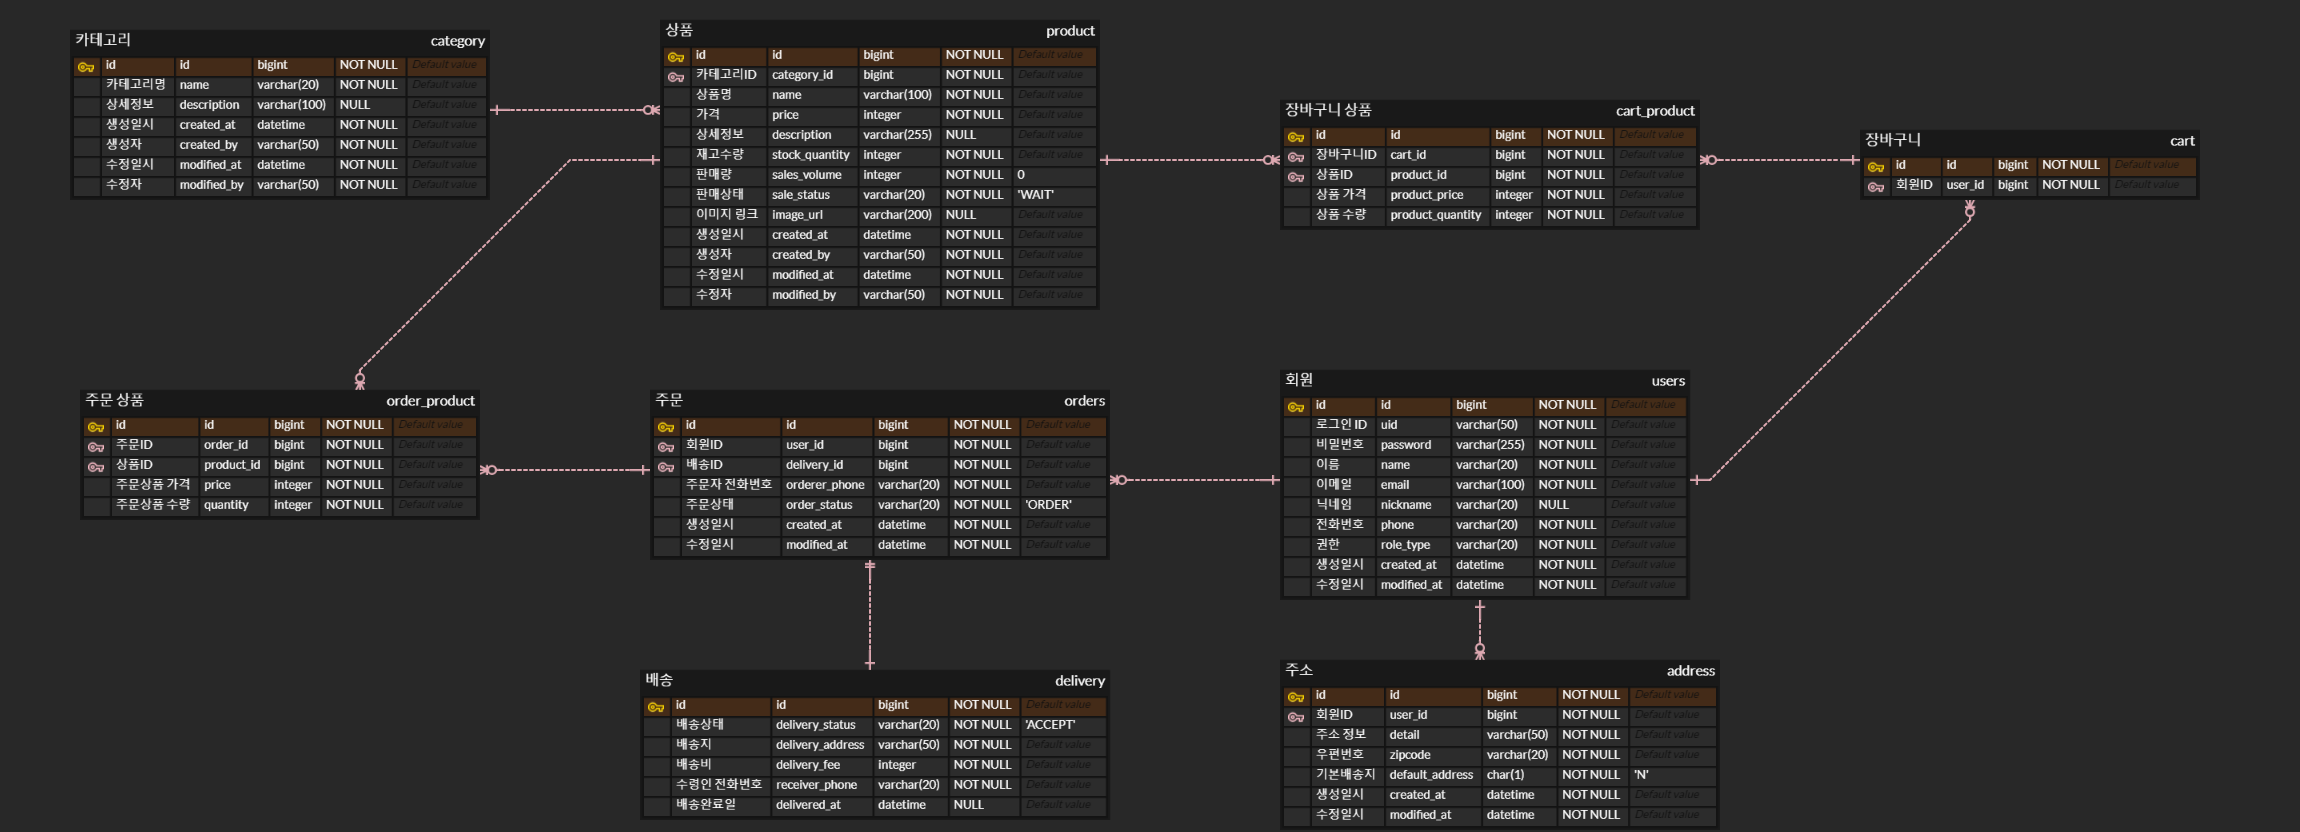
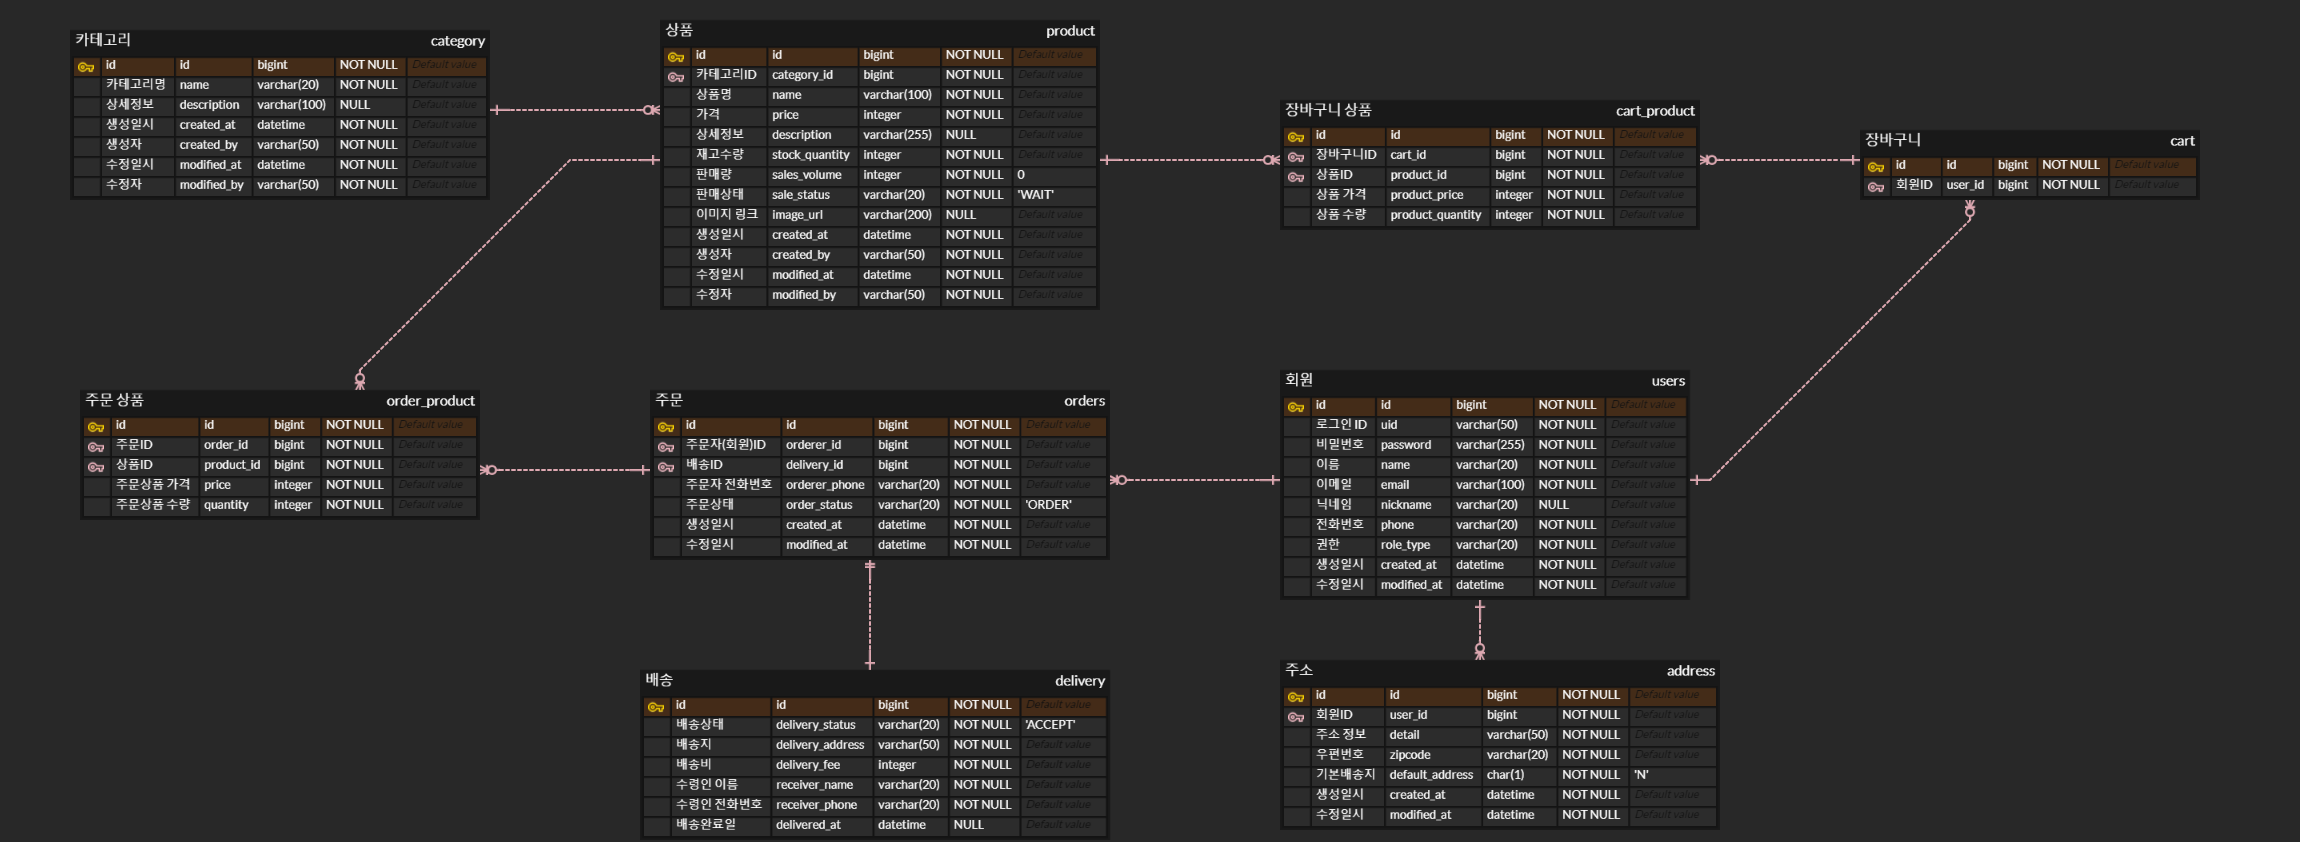
주문, 배송 엔티티 수정 (#32)
* #30 - 주문 엔티티 수정: user -> orderer

주문자라는 의미를 명확하게 하기 위해 `orderer`로 변경함.

* #30 - 배송 엔티티 수정: receiverName 추가

주문한 사람과 배송 받는 사람은 다를 수 있기 때문에 수령인 이름(`receiverName`)을 추가함.

* #30 - ERD에 변경 사항 반영

주문, 배송 엔티티의 변경 사항을 ERD에도 반영함.

변경 사항:
* orders: user_id -> orderer_id
* delivery: receiver_name 추가

diff --git a/src/main/java/com/been/onlinestore/domain/Delivery.java b/src/main/java/com/been/onlinestore/domain/Delivery.java
@@ -38,6 +38,9 @@ public class Delivery {
     private int deliveryFee;
 
     @Column(nullable = false, length = 20)
+    private String receiverName;
+
+    @Column(nullable = false, length = 20)
     private String receiverPhone;
 
     @DateTimeFormat(iso = DateTimeFormat.ISO.DATE_TIME)
@@ -45,16 +48,17 @@ public class Delivery {
 
     protected Delivery() {}
 
-    private Delivery(DeliveryStatus deliveryStatus, String deliveryAddress, int deliveryFee, String receiverPhone, LocalDateTime deliveredAt) {
+    private Delivery(DeliveryStatus deliveryStatus, String deliveryAddress, int deliveryFee, String receiverName, String receiverPhone, LocalDateTime deliveredAt) {
         this.deliveryStatus = deliveryStatus;
         this.deliveryAddress = deliveryAddress;
         this.deliveryFee = deliveryFee;
+        this.receiverName = receiverName;
         this.receiverPhone = receiverPhone;
         this.deliveredAt = deliveredAt;
     }
 
-    public static Delivery of(DeliveryStatus deliveryStatus, String deliveryAddress, int deliveryFee, String receiverPhone, LocalDateTime deliveredAt) {
-        return new Delivery(deliveryStatus, deliveryAddress, deliveryFee, receiverPhone, deliveredAt);
+    public static Delivery of(DeliveryStatus deliveryStatus, String deliveryAddress, int deliveryFee, String receiverName, String receiverPhone, LocalDateTime deliveredAt) {
+        return new Delivery(deliveryStatus, deliveryAddress, deliveryFee, receiverName, receiverPhone, deliveredAt);
     }
 
     @Override

diff --git a/src/main/java/com/been/onlinestore/domain/Order.java b/src/main/java/com/been/onlinestore/domain/Order.java
@@ -31,7 +31,7 @@ public class Order extends BaseTimeEntity {
 
     @ToString.Exclude
     @ManyToOne(fetch = FetchType.LAZY)
-    private User user;
+    private User orderer;
 
     @ToString.Exclude
     @OneToOne(fetch = FetchType.LAZY)
@@ -48,8 +48,8 @@ public class Order extends BaseTimeEntity {
 
     protected Order() {}
 
-    private Order(User user, Delivery delivery, String ordererPhone, OrderStatus orderStatus) {
-        this.user = user;
+    private Order(User orderer, Delivery delivery, String ordererPhone, OrderStatus orderStatus) {
+        this.orderer = orderer;
         this.delivery = delivery;
         this.ordererPhone = ordererPhone;
         this.orderStatus = orderStatus;
